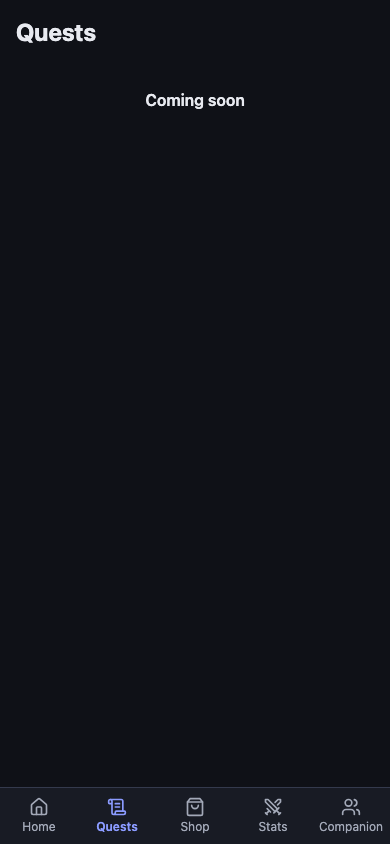
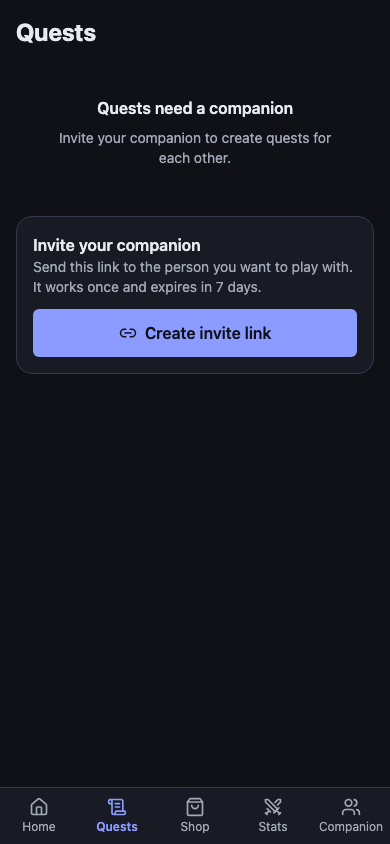
chore(S09): mark stage passing, update TODO and lead log

Changed region(s): [[0.0615, 0.2773, 0.9231, 0.4313], [0.1538, 0.0924, 0.8308, 0.2156]]

diff --git a/docs/TODO.md b/docs/TODO.md
@@ -66,3 +66,5 @@
 - S09: no edit / propose-revision UI for the GM (PATCH /quests/{id}); detail only shows and decides pending revisions. Pause/resume of recurring quests has no UI or route either.
 - S09: the quests tabs fetch GET /quests and /quest-templates (limit 200) and bucket client-side; add server-side status filters/pagination if lists grow.
 - S09: Companion page "Create quest" shortcut (ARCHITECTURE s6) not wired; /quests/new is reachable from the Quests FAB and duplicate only.
+- Quest UI: QuestActions/QuestDetailPage only allow accepting a revision on an active occurrence; DECISIONS #15 also allows active/paused templates whose latest recurring occurrence is in_review/completed (S09 review).
+- api/router.py: /quests/estimate only beats /quests/{id} because routes load by file name (presets < quests); make the order explicit (S09 review).

diff --git a/docs/LEAD-LOG.md b/docs/LEAD-LOG.md
@@ -76,3 +76,5 @@ verbs: DISPATCH, REVIEW, MERGED, PARTIAL, FALLBACK, BLOCKED -->
 2026-11-21T22:24 DISPATCH S09 -> stage-worker(sonnet) (medium, normal, ui, quest UI)
 2026-11-21T22:36 REVIEW S09 -> stage-reviewer (round 1, @1d6f5bd)
 2026-11-21T22:38 REVIEW S09 stage-reviewer: APPROVE (round 1; 5 minor notes, 2 TODOs)
+2026-11-21T22:49 MERGED S09 (check-stage --mark passed on main; S01/S03-S08 recheck passed; 1 review round; 2 TODOs)
+2026-11-21T22:49 DISPATCH S10 -> stage-worker(opus) (high, sensitive, reward shop backend)
